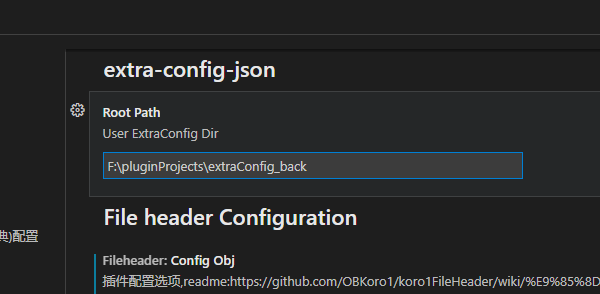
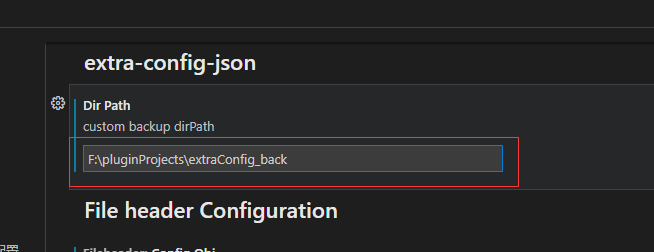
fix save bug

diff --git a/src/extension.ts b/src/extension.ts
@@ -65,12 +65,18 @@ export function activate(context: vscode.ExtensionContext) {
 }
 
 function _initRootPath(): string {
-  let userPath = vscode.workspace.getConfiguration().get<string>("extra-config-json.rootPath");
-  if (userPath) {
-    return userPath;
+  let dirPath = vscode.workspace.getConfiguration().get<string>("extra-config-json.dirPath");
+  if (dirPath) {
+    fs.ensureDirSync(dirPath);
+    return dirPath;
   }
   fs.ensureDirSync(defPath);
   return defPath;
+}
+
+function _findFileTextDocument(fsPath: string): vscode.TextDocument | undefined {
+  console.log("_findFileTextDocument");
+  return vscode.workspace.textDocuments.find((doc) => doc.uri.fsPath === fsPath);
 }
 
 async function _fileNameInputBox(): Promise<string | undefined> {
@@ -80,6 +86,8 @@ async function _fileNameInputBox(): Promise<string | undefined> {
 
 async function _saveExtraConfigFile(fsPath: string): Promise<void> {
   console.log("_saveExtraConfigFile ~ fsPath", fsPath);
+  let textDocument = _findFileTextDocument(fsPath);
+  await textDocument?.save();
   let rootPath = _initRootPath();
   let name = await _fileNameInputBox();
   if (name) {
@@ -95,6 +103,11 @@ async function _fileQuickPick(fileList: string[]): Promise<string | undefined> {
 
 async function _swapExtraConfigFile(fsPath: string): Promise<void> {
   console.log("_swapExtraConfigFile ~ fsPath", fsPath);
+  let textDocument = _findFileTextDocument(fsPath);
+  if (textDocument?.isDirty) {
+    vscode.window.showErrorMessage("请先 Ctrl+s 保存文件");
+    return;
+  }
   let rootPath = _initRootPath();
   let jsonFileList = fs.readdirSync(rootPath).filter((name) => {
     return name.endsWith(".json");

diff --git a/README.md b/README.md
@@ -1,30 +1,44 @@
 # extra-config-json
 
-`extraConfig.json` Quick swap, Simple Save, Git Unchanged
+为项目配置文件 `extraConfig.json` 开发的 vscode 插件
 
-为项目配置文件`extraConfig.json`开发的插件，对其保存和修改时增加了备份，以及`git`变更监听优化。
+快速切换，简单保存，忽略 Git
 
-## 保存/切换 extraConfig.json
+Quick swap, Simple Save, Git Unchanged
 
-在`extraConfig.json`文件上方会会有两个按钮，`link`和`save`
+# 功能
 
----
+- [x] 保存 `extraConfig.json` 到用户目录文件夹备份
+- [x] 快速替换本地保存的 `extraConfig.json`
+- [x] 本地记录切换历史文件，方便查找溯源
+- [x] 本地忽略 `extraConfig.json` 的变更，`git`提交时无视变更
+- [x] 自定义备份文件夹
+
+## 切换/保存
+
+在`extraConfig.json`文件右上方有两个功能按钮，点击可以切换/保存`extraConfig.json`文件
 
 ![swap](./docs/img/swap.gif)
 
-每次切换 json 文件时会在文件夹中的`History`文件夹中备份
+## 记录历史
+
+切换`extraConfig.json`文件时会备份文件夹下的`History`文件夹中备份
 
 ![history](./docs/img/history.png)
-
----
 
 ## git 假设提交
 
 使用`git`假设提交命令，忽略`extraConfig.json`的变更,只对本机生效
 
-点击按钮`Git --assume-unchanged @extra-config-json` 后，本地修改`extraConfig.json`时，不会触发 git
+右键点击文件时出现两个文件功能选项
 
-点击按钮`Git --no-assume-unchanged @extra-config-json` ，可以取消不触发状态
+- `Git --assume-unchanged @extra-config-json`
+
+  点击后本地修改`extraConfig.json`时，不会触发`git`变更记录，保留其初始版本
+
+- `Git --no-assume-unchanged @extra-config-json` ，
+
+  点击后取消不触发状态
 
 ```shell
 # ignore一个文件的更改又保留其初始版本
@@ -35,14 +49,14 @@ git update-index --no-assume-unchanged [file-path]
 
 ![假设提交](./docs/img/git_assume.png)
 
----
+## 自定义备份文件夹
 
-## 配置备份文件夹
+默认备份文件夹为`用户文件目录`下的`.extra-config-json`文件夹
 
-默认备份文件夹为`用户目录`下的`.extra-config-json`文件夹，可自行修改
+也可自行配置，在 `vscode`的设置中找到如下配置项，写入文件夹地址
 
 ![配置](./docs/img/setting.png)
 
-## extra-config-json
+## 其他
 
-欢迎大家提出想法和反馈问题 [issues](https://github.com/jawa0919/extra-config-json/issues)
+欢迎大家 `提出想法` 和 `反馈问题` [issues](https://github.com/jawa0919/extra-config-json/issues)

diff --git a/CHANGELOG.md b/CHANGELOG.md
@@ -1,5 +1,10 @@
 # Change Log
 
+# 0.0.2
+
+- fix save bug
+- fix readme
+
 # 0.0.1
 
 - Initial release
